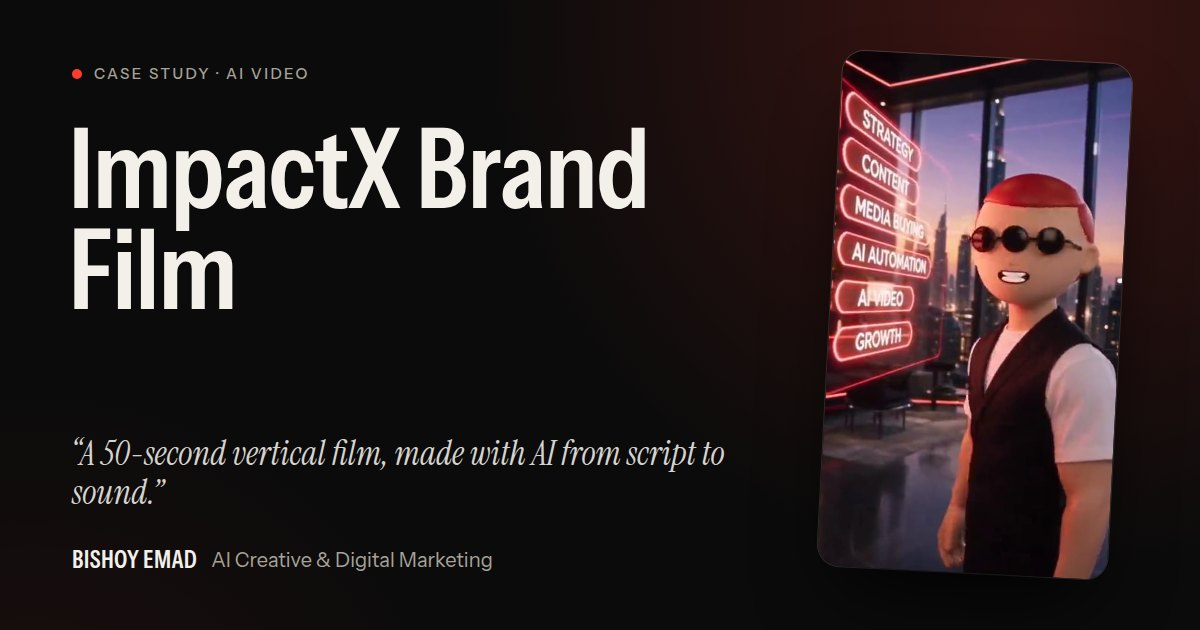
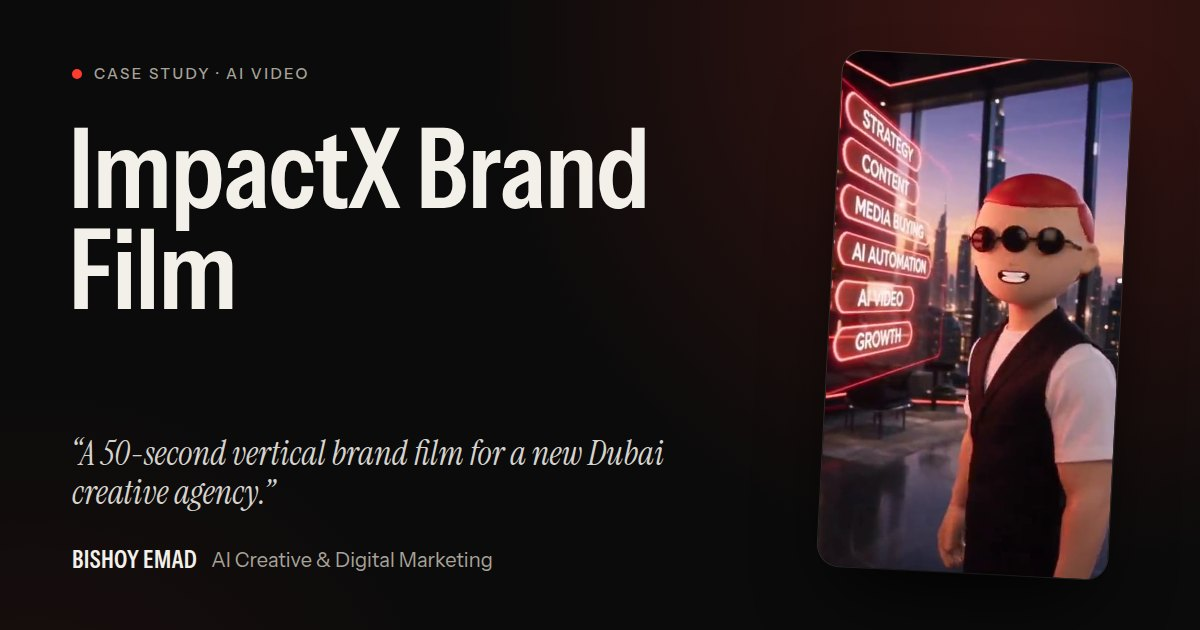
Replace Tools & Skills with a Capabilities section
Removes every tool and software name, the "Tools used" labels on
project cards and case studies, and wording that described the
production process. The new Capabilities section lists only the six
capabilities. The brand film's social preview image is re-rendered
without process wording, and the live site check now confirms the
Capabilities section is present and no tools section remains.

Claude-Session: https://claude.ai/code/session_015RUkfNFiafqaUPcnd1Dnq4

Changed region(s): [[0.2775, 0.6937, 0.6167, 0.754], [0.0617, 0.754, 0.2158, 0.8143]]

diff --git a/src/data/projects.ts b/src/data/projects.ts
@@ -7,10 +7,7 @@ import { films, images, stills, type FilmAsset, type ImageAsset } from "./media"
  * - Everything described is visible in the work itself or stated in the uploaded files.
  * - No invented clients, metrics, reach or results.
  * - Self-initiated work is labelled "Concept Project".
- *
- * TODO (Bishoy): `tools` lists what each piece was made with in general terms, because
- * the files don't record which app made which piece. Replace with exact tool names
- * (e.g. "Higgsfield", "ChatGPT", "Canva") once confirmed.
+ * - No tools, software or production process are described anywhere.
  */
 
 export type ProjectType = "Brand Campaign" | "Concept Project";
@@ -42,7 +39,6 @@ export type Project = {
   brandNote?: string;
   summary: string;
   format: string;
-  tools: string[];
   cover: ImageAsset;
   film?: FilmAsset;
   /** Where the hover preview starts in the teaser, matching the cover frame (seconds). */
@@ -71,7 +67,6 @@ export const projects: Project[] = [
     summary:
       "A 50-second vertical film that introduces a new Dubai creative agency, told through the character who fronts it.",
     format: "Vertical film · 9:16 · 0:50",
-    tools: ["AI scriptwriting", "AI video generation", "AI sound", "Editing"],
     cover: stills.brand[3],
     film: films.brand,
     previewStart: 3.8,
@@ -90,7 +85,6 @@ export const projects: Project[] = [
       approach:
         "Tell it as a story, not a service list. The film opens on a business owner whose posts aren’t working, then brings in the ImpactX mascot as the answer: a character the brand can reuse on every channel.",
       execution: [
-        "Script, visuals, edit and sound were all produced with AI tools.",
         "One character kept consistent across close-ups, wide shots and motion-graphics scenes.",
         "Neon interface graphics carry the service list, a live chat automation and a wall of AI video content.",
         "The film closes on a package offer and the ImpactX logo.",
@@ -111,7 +105,6 @@ export const projects: Project[] = [
     summary:
       "A 26-second vertical product ad for a blemish-patch range, made as a spec piece to show what AI product video can do for beauty brands.",
     format: "Vertical film · 9:16 · 0:26",
-    tools: ["AI video generation", "AI sound", "Editing"],
     cover: stills.skincare[4],
     film: films.skincare,
     previewStart: 6.9,
@@ -151,7 +144,6 @@ export const projects: Project[] = [
     summary:
       "The opening post of the ImpactX launch. It speaks directly to business owners who keep spending on ads without results.",
     format: "Social post · 3:4 portrait",
-    tools: ["AI image generation", "Copywriting", "Art direction"],
     cover: images.keyVisual,
     caseStudy: {
       challenge:
@@ -180,7 +172,6 @@ export const projects: Project[] = [
     summary:
       "Launch posts for ImpactX’s AI video service, in two variants for testing: one product-led, one lifestyle-led.",
     format: "2 social posts · 3:4 portrait",
-    tools: ["AI image generation", "Copywriting", "Art direction"],
     cover: images.aiVideoA,
     variants: [
       {
@@ -222,7 +213,6 @@ export const projects: Project[] = [
     summary:
       "Launch posts that make marketing automation concrete: a customer message answered and a table booked at 22:47, with nobody at the desk.",
     format: "2 social posts · 3:4 portrait",
-    tools: ["AI image generation", "Copywriting", "Art direction"],
     cover: images.automationA,
     variants: [
       {

diff --git a/src/sections/Certifications.tsx b/src/sections/Certifications.tsx
@@ -1,0 +1,41 @@
+import { Container } from "@/components/Container";
+import { ArrowUpRight } from "@/components/Icons";
+import { Reveal } from "@/components/Reveal";
+import { SectionLabel } from "@/components/SectionHeader";
+import { certifications } from "@/data/certifications";
+
+export function Certifications() {
+  return (
+    <section id="certifications" data-nav="about" aria-labelledby="certifications-title" className="pb-24 md:pb-32 lg:pb-36">
+      <Container>
+        <Reveal className="grid grid-cols-1 gap-8 border-t border-line pt-10 md:grid-cols-12 md:gap-10">
+          <div className="md:col-span-4">
+            <SectionLabel index="07">Certifications</SectionLabel>
+            <h2 id="certifications-title" className="sr-only">
+              Certifications
+            </h2>
+          </div>
+          <ul className="grid gap-4 sm:grid-cols-2 md:col-span-8">
+            {certifications.map((certification) => (
+              <li key={certification.name} className="flex flex-col rounded-[1.25rem] border border-line p-6 md:p-7">
+                <p className="font-display text-[1.75rem] leading-none">{certification.issuer}</p>
+                <p className="mt-6 text-[1.0625rem] font-medium">{certification.name}</p>
+                <p className="mt-1 text-sm text-mute">Certificate · Issued by {certification.issuer}</p>
+                {certification.url && (
+                  <a
+                    href={certification.url}
+                    target="_blank"
+                    rel="noopener noreferrer"
+                    className="mt-5 inline-flex items-center gap-1.5 text-sm text-paper underline decoration-line-strong underline-offset-4 hover:decoration-paper"
+                  >
+                    Verify credential <ArrowUpRight width={14} height={14} />
+                  </a>
+                )}
+              </li>
+            ))}
+          </ul>
+        </Reveal>
+      </Container>
+    </section>
+  );
+}

diff --git a/src/sections/Capabilities.tsx b/src/sections/Capabilities.tsx
@@ -1,0 +1,48 @@
+import { Container } from "@/components/Container";
+import { Reveal } from "@/components/Reveal";
+import { Accent, SectionHeader } from "@/components/SectionHeader";
+import { capabilities } from "@/data/capabilities";
+
+/** Renders "A & B" with the ampersand in the editorial italic used across the site. */
+function CapabilityName({ name }: { name: string }) {
+  const [before, after] = name.split(" & ");
+  if (after === undefined) return <>{name}</>;
+  return (
+    <>
+      {before} <Accent>&amp;</Accent> {after}
+    </>
+  );
+}
+
+export function Capabilities() {
+  return (
+    <section
+      id="capabilities"
+      data-nav="about"
+      aria-labelledby="capabilities-title"
+      className="border-t border-line py-24 md:py-32 lg:py-36"
+    >
+      <Container>
+        <SectionHeader id="capabilities-title" index="06" label="Capabilities" title="Capabilities" />
+
+        <Reveal className="mt-14 md:mt-20">
+          <ol className="border-t border-line">
+            {capabilities.map((capability, index) => (
+              <li
+                key={capability}
+                className="group grid grid-cols-[2.75rem_1fr] items-baseline gap-x-3 border-b border-line py-6 md:grid-cols-12 md:gap-x-8 md:py-7"
+              >
+                <span className="label tabular text-faint transition-colors duration-300 group-hover:text-signal md:col-span-3">
+                  {String(index + 1).padStart(2, "0")}
+                </span>
+                <span className="font-display text-[clamp(2rem,4.6vw,3.75rem)] leading-[1.05] text-balance transition-transform duration-500 ease-out-expo group-hover:translate-x-2 md:col-span-9">
+                  <CapabilityName name={capability} />
+                </span>
+              </li>
+            ))}
+          </ol>
+        </Reveal>
+      </Container>
+    </section>
+  );
+}

diff --git a/src/sections/Showreel.tsx b/src/sections/Showreel.tsx
@@ -20,7 +20,7 @@ const facts = [
   { term: "Format", detail: "Vertical 9:16" },
   { term: "Length", detail: "0:50" },
   { term: "Built for", detail: "Instagram & paid social" },
-  { term: "Made with", detail: "AI, from script to sound" },
+  { term: "Type", detail: "Brand film" },
 ];
 
 export function Showreel() {
@@ -37,8 +37,8 @@ export function Showreel() {
                 ImpactX <Accent>brand film</Accent>
               </h2>
               <p className="mt-6 max-w-lg text-[1.0625rem] leading-relaxed text-mute">
-                A 50-second vertical film that introduces a new Dubai creative agency, told through the character who
-                fronts it. Script, visuals, edit and sound were all produced with AI.
+                An AI-produced, 50-second vertical film that introduces a new Dubai creative agency, told through the
+                character who fronts it.
               </p>
             </Reveal>
 

diff --git a/src/app/page.tsx b/src/app/page.tsx
@@ -1,11 +1,12 @@
 import { About } from "@/sections/About";
 import { AIVideo } from "@/sections/AIVideo";
+import { Capabilities } from "@/sections/Capabilities";
+import { Certifications } from "@/sections/Certifications";
 import { Contact } from "@/sections/Contact";
 import { Hero } from "@/sections/Hero";
 import { SelectedWork } from "@/sections/SelectedWork";
 import { Services } from "@/sections/Services";
 import { Showreel } from "@/sections/Showreel";
-import { Certifications, Skills } from "@/sections/Skills";
 import { WhyMe } from "@/sections/WhyMe";
 
 export default function Home() {
@@ -17,7 +18,7 @@ export default function Home() {
       <AIVideo />
       <Services />
       <About />
-      <Skills />
+      <Capabilities />
       <Certifications />
       <WhyMe />
       <Contact />

diff --git a/src/components/projects/CaseStudy.tsx b/src/components/projects/CaseStudy.tsx
@@ -78,15 +78,6 @@ export function CaseStudy({ project, next }: { project: Project; next: Project }
           <CaseRow title="Deliverables">
             <List items={project.caseStudy.deliverables} />
           </CaseRow>
-          <CaseRow title="Tools used">
-            <ul className="flex flex-wrap gap-2">
-              {project.tools.map((tool) => (
-                <li key={tool} className="rounded-full border border-line-strong px-3.5 py-1.5 text-[0.9375rem] text-paper">
-                  {tool}
-                </li>
-              ))}
-            </ul>
-          </CaseRow>
           <CaseRow title="Final result">
             <p>{project.caseStudy.result}</p>
           </CaseRow>

diff --git a/src/components/projects/ProjectCard.tsx b/src/components/projects/ProjectCard.tsx
@@ -53,14 +53,6 @@ export function ProjectCard({ project, index, className }: { project: Project; i
 
       <p className="mt-3 max-w-xl text-[1.0625rem] leading-relaxed text-mute">{project.summary}</p>
 
-      <ul aria-label="Tools used" className="mt-5 flex flex-wrap gap-2">
-        {project.tools.map((tool) => (
-          <li key={tool} className="rounded-full border border-line px-3 py-1 text-xs text-mute">
-            {tool}
-          </li>
-        ))}
-      </ul>
-
       <span
         aria-hidden
         className="mt-6 inline-flex items-center gap-2 border-b border-line-strong pb-1 text-[0.9375rem] font-medium transition-colors duration-300 group-hover:border-paper"

diff --git a/src/data/services.ts b/src/data/services.ts
@@ -54,8 +54,8 @@ export const reasons: Reason[] = [
     body: "Google-certified in digital marketing and e-commerce. Content is planned for the platform and built to be tested, which is why launch posts come in A/B pairs.",
   },
   {
-    title: "AI tools, used with intent",
-    body: "Script, visuals, edit and sound produced with AI. No crew, studio or location to pay for, which leaves room for more versions to test.",
+    title: "AI-powered production",
+    body: "No crews, studios or locations to book, so budgets go further and there is room to test more versions.",
   },
   {
     title: "Commercial experience",

diff --git a/src/sections/AIVideo.tsx b/src/sections/AIVideo.tsx
@@ -24,7 +24,7 @@ export function AIVideo() {
               AI video, from script <Accent>to screen</Accent>
             </>
           }
-          intro="Every frame, from script and visuals to edit and sound, is produced with AI tools. No camera crew, no studio, and a turnaround measured in days instead of weeks."
+          intro="Commercials, product films and brand stories produced with AI. No camera crew, no studio, and a turnaround measured in days instead of weeks."
         />
 
         <div className="mt-14 grid grid-cols-1 gap-y-16 md:mt-20 lg:grid-cols-12 lg:gap-x-10">

diff --git a/src/components/Footer.tsx b/src/components/Footer.tsx
@@ -11,7 +11,7 @@ export function Footer() {
           <p className="font-display text-2xl uppercase text-paper">{profile.name}</p>
           <p className="mt-1">{profile.role} · {profile.location}</p>
           <p className="mt-5 max-w-lg text-faint">
-            All visuals and films on this site were created by {profile.name} with AI tools. Concept projects are
+            All visuals and films on this site were created by {profile.name} using AI. Concept projects are
             independent and not affiliated with the brands shown.
           </p>
         </div>

diff --git a/src/data/certifications.ts b/src/data/certifications.ts
@@ -1,0 +1,11 @@
+export type Certification = {
+  name: string;
+  issuer: string;
+  /** TODO (Bishoy): add the public credential URL to show a "Verify" link. */
+  url?: string;
+};
+
+export const certifications: Certification[] = [
+  { name: "Digital Marketing & E-commerce", issuer: "Google" },
+  { name: "Social Media Marketing", issuer: "Meta" },
+];

diff --git a/src/data/capabilities.ts b/src/data/capabilities.ts
@@ -1,0 +1,12 @@
+/**
+ * Capabilities shown on the site.
+ * Deliberately lists what Bishoy delivers, never the tools, software or process behind it.
+ */
+export const capabilities = [
+  "AI Video Production",
+  "Creative Advertising",
+  "Social Media Content",
+  "Digital Marketing",
+  "AI Automation",
+  "Landing Pages & Web Experiences",
+];
